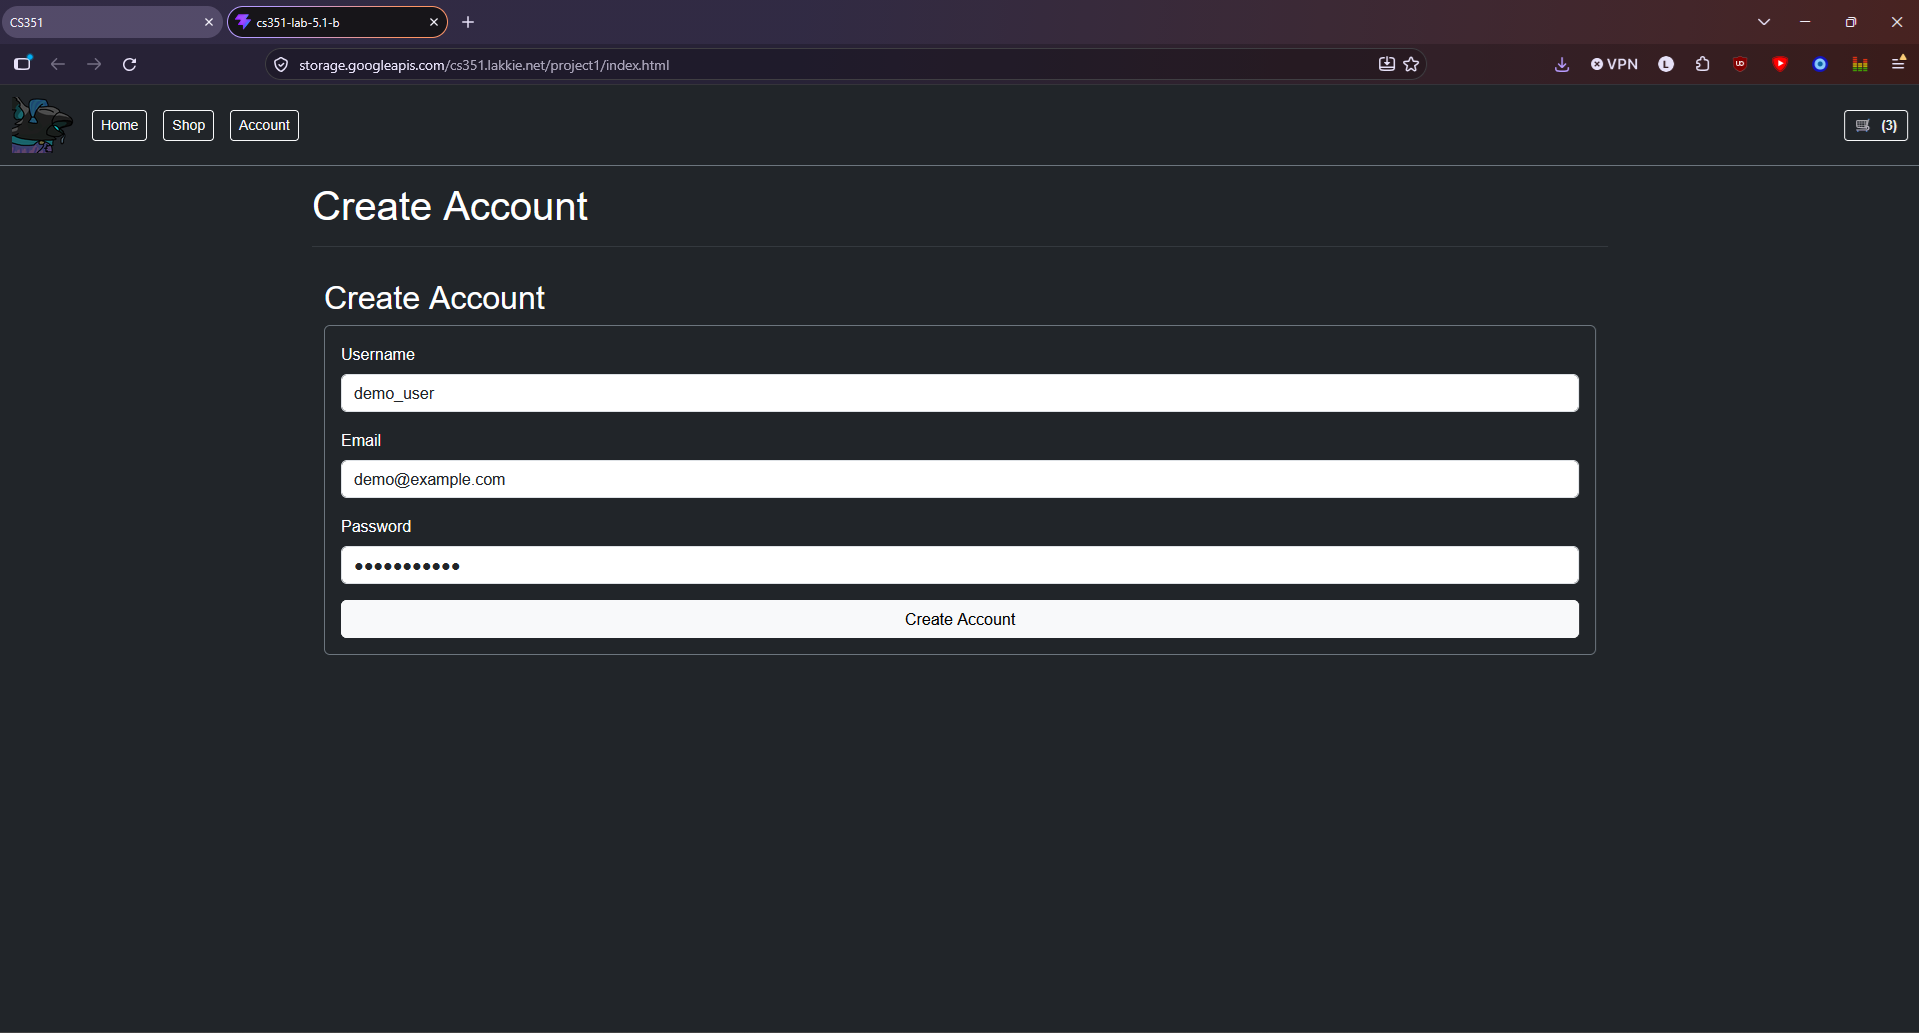
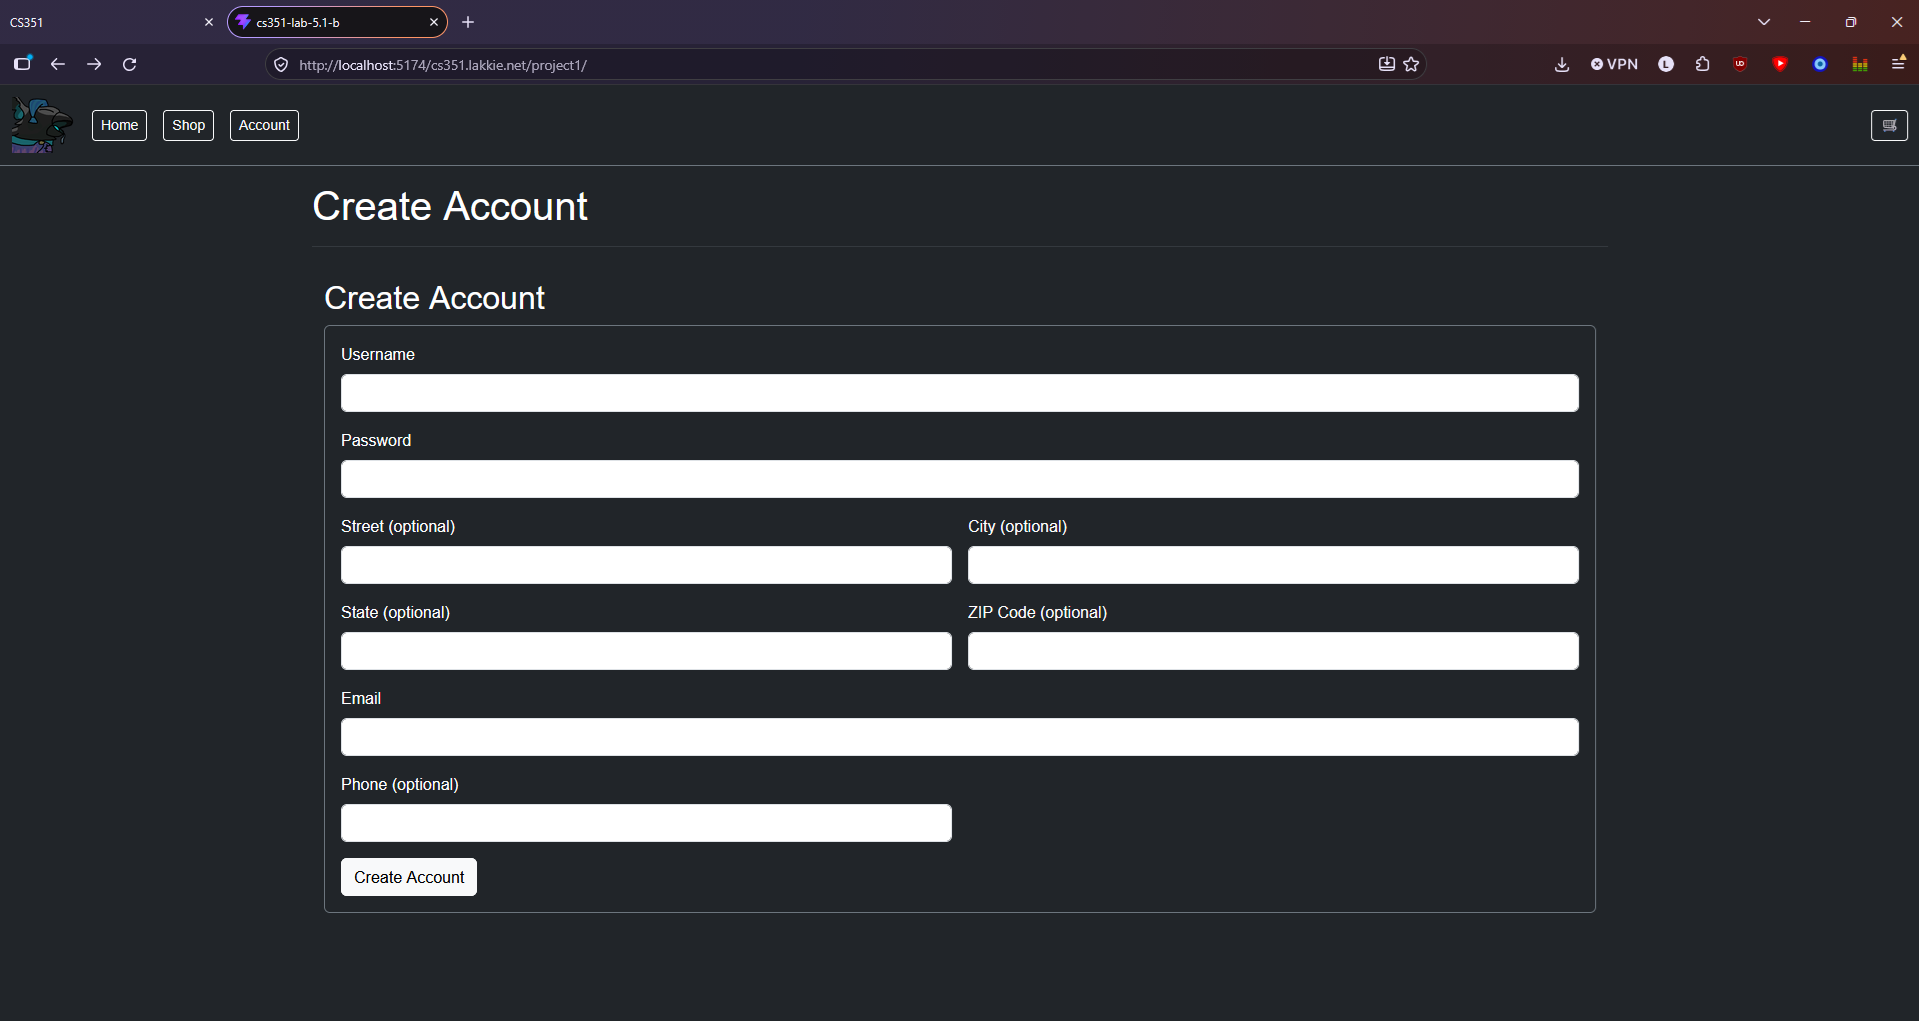
Updated create account fields to match reqs

diff --git a/src/views/CreateAccountView.jsx b/src/views/CreateAccountView.jsx
@@ -6,7 +6,8 @@ export class CreateAccountView extends Component {
       <div className="container py-3">
         <h2>Create Account</h2>
         <form className="card bg-dark text-white border-secondary p-3">
-          <div className="mb-3">
+          <div className="row g-3">
+          <div className="col-12">
             <label className="form-label" htmlFor="create-username">Username</label>
             <input
               id="create-username"
@@ -18,20 +19,7 @@ export class CreateAccountView extends Component {
               required
             />
           </div>
-          <div className="mb-3">
-            <label className="form-label" htmlFor="create-email">Email</label>
-            <input
-              id="create-email"
-              className="form-control"
-              name="email"
-              type="email"
-              autoComplete="email"
-              pattern="[A-Za-z0-9._%+-]+@[A-Za-z0-9.-]+[.][A-Za-z]{2,}"
-              title="Enter a valid email address, such as name@example.com."
-              required
-            />
-          </div>
-          <div className="mb-3">
+          <div className="col-12">
             <label className="form-label" htmlFor="create-password">Password</label>
             <input
               id="create-password"
@@ -44,7 +32,80 @@ export class CreateAccountView extends Component {
               required
             />
           </div>
-          <button type="submit" className="btn btn-light">Create Account</button>
+          <div className="col-12 col-md-6">
+            <label className="form-label" htmlFor="create-street">Street (optional)</label>
+            <input
+              id="create-street"
+              className="form-control"
+              name="street"
+              autoComplete="address-line1"
+              pattern="[A-Za-z0-9 .,'#-]{3,100}"
+              title="Enter a street address between 3 and 100 characters."
+            />
+          </div>
+          <div className="col-12 col-md-6">
+            <label className="form-label" htmlFor="create-city">City (optional)</label>
+            <input
+              id="create-city"
+              className="form-control"
+              name="city"
+              autoComplete="address-level2"
+              pattern="[A-Za-z .'-]{2,50}"
+              title="Enter a city name between 2 and 50 letters."
+            />
+          </div>
+          <div className="col-12 col-md-6">
+            <label className="form-label" htmlFor="create-state">State (optional)</label>
+            <input
+              id="create-state"
+              className="form-control"
+              name="state"
+              autoComplete="address-level1"
+              pattern="[A-Za-z]{2}"
+              title="Enter the two-letter state abbreviation, such as CA."
+            />
+          </div>
+          <div className="col-12 col-md-6">
+            <label className="form-label" htmlFor="create-zip">ZIP Code (optional)</label>
+            <input
+              id="create-zip"
+              className="form-control"
+              name="zip"
+              autoComplete="postal-code"
+              inputMode="numeric"
+              pattern="[0-9]{5}(-[0-9]{4})?"
+              title="Enter a 5-digit ZIP code, optionally followed by a 4-digit extension."
+            />
+          </div>
+          <div className="col-12">
+            <label className="form-label" htmlFor="create-email">Email</label>
+            <input
+              id="create-email"
+              className="form-control"
+              name="email"
+              type="email"
+              autoComplete="email"
+              pattern="[A-Za-z0-9._%+-]+@[A-Za-z0-9.-]+[.][A-Za-z]{2,}"
+              title="Enter a valid email address, such as name@example.com."
+              required
+            />
+          </div>
+          <div className="col-12 col-md-6">
+            <label className="form-label" htmlFor="create-phone">Phone (optional)</label>
+            <input
+              id="create-phone"
+              className="form-control"
+              name="phone"
+              type="tel"
+              autoComplete="tel"
+              pattern="(\+?1[ .-]?)?(\([0-9]{3}\)|[0-9]{3})[ .-]?[0-9]{3}[ .-]?[0-9]{4}"
+              title="Enter a 10-digit US phone number, optionally including +1 and common separators."
+            />
+          </div>
+          <div className="col-12">
+            <button type="submit" className="btn btn-light">Create Account</button>
+          </div>
+          </div>
         </form>
       </div>
     );
